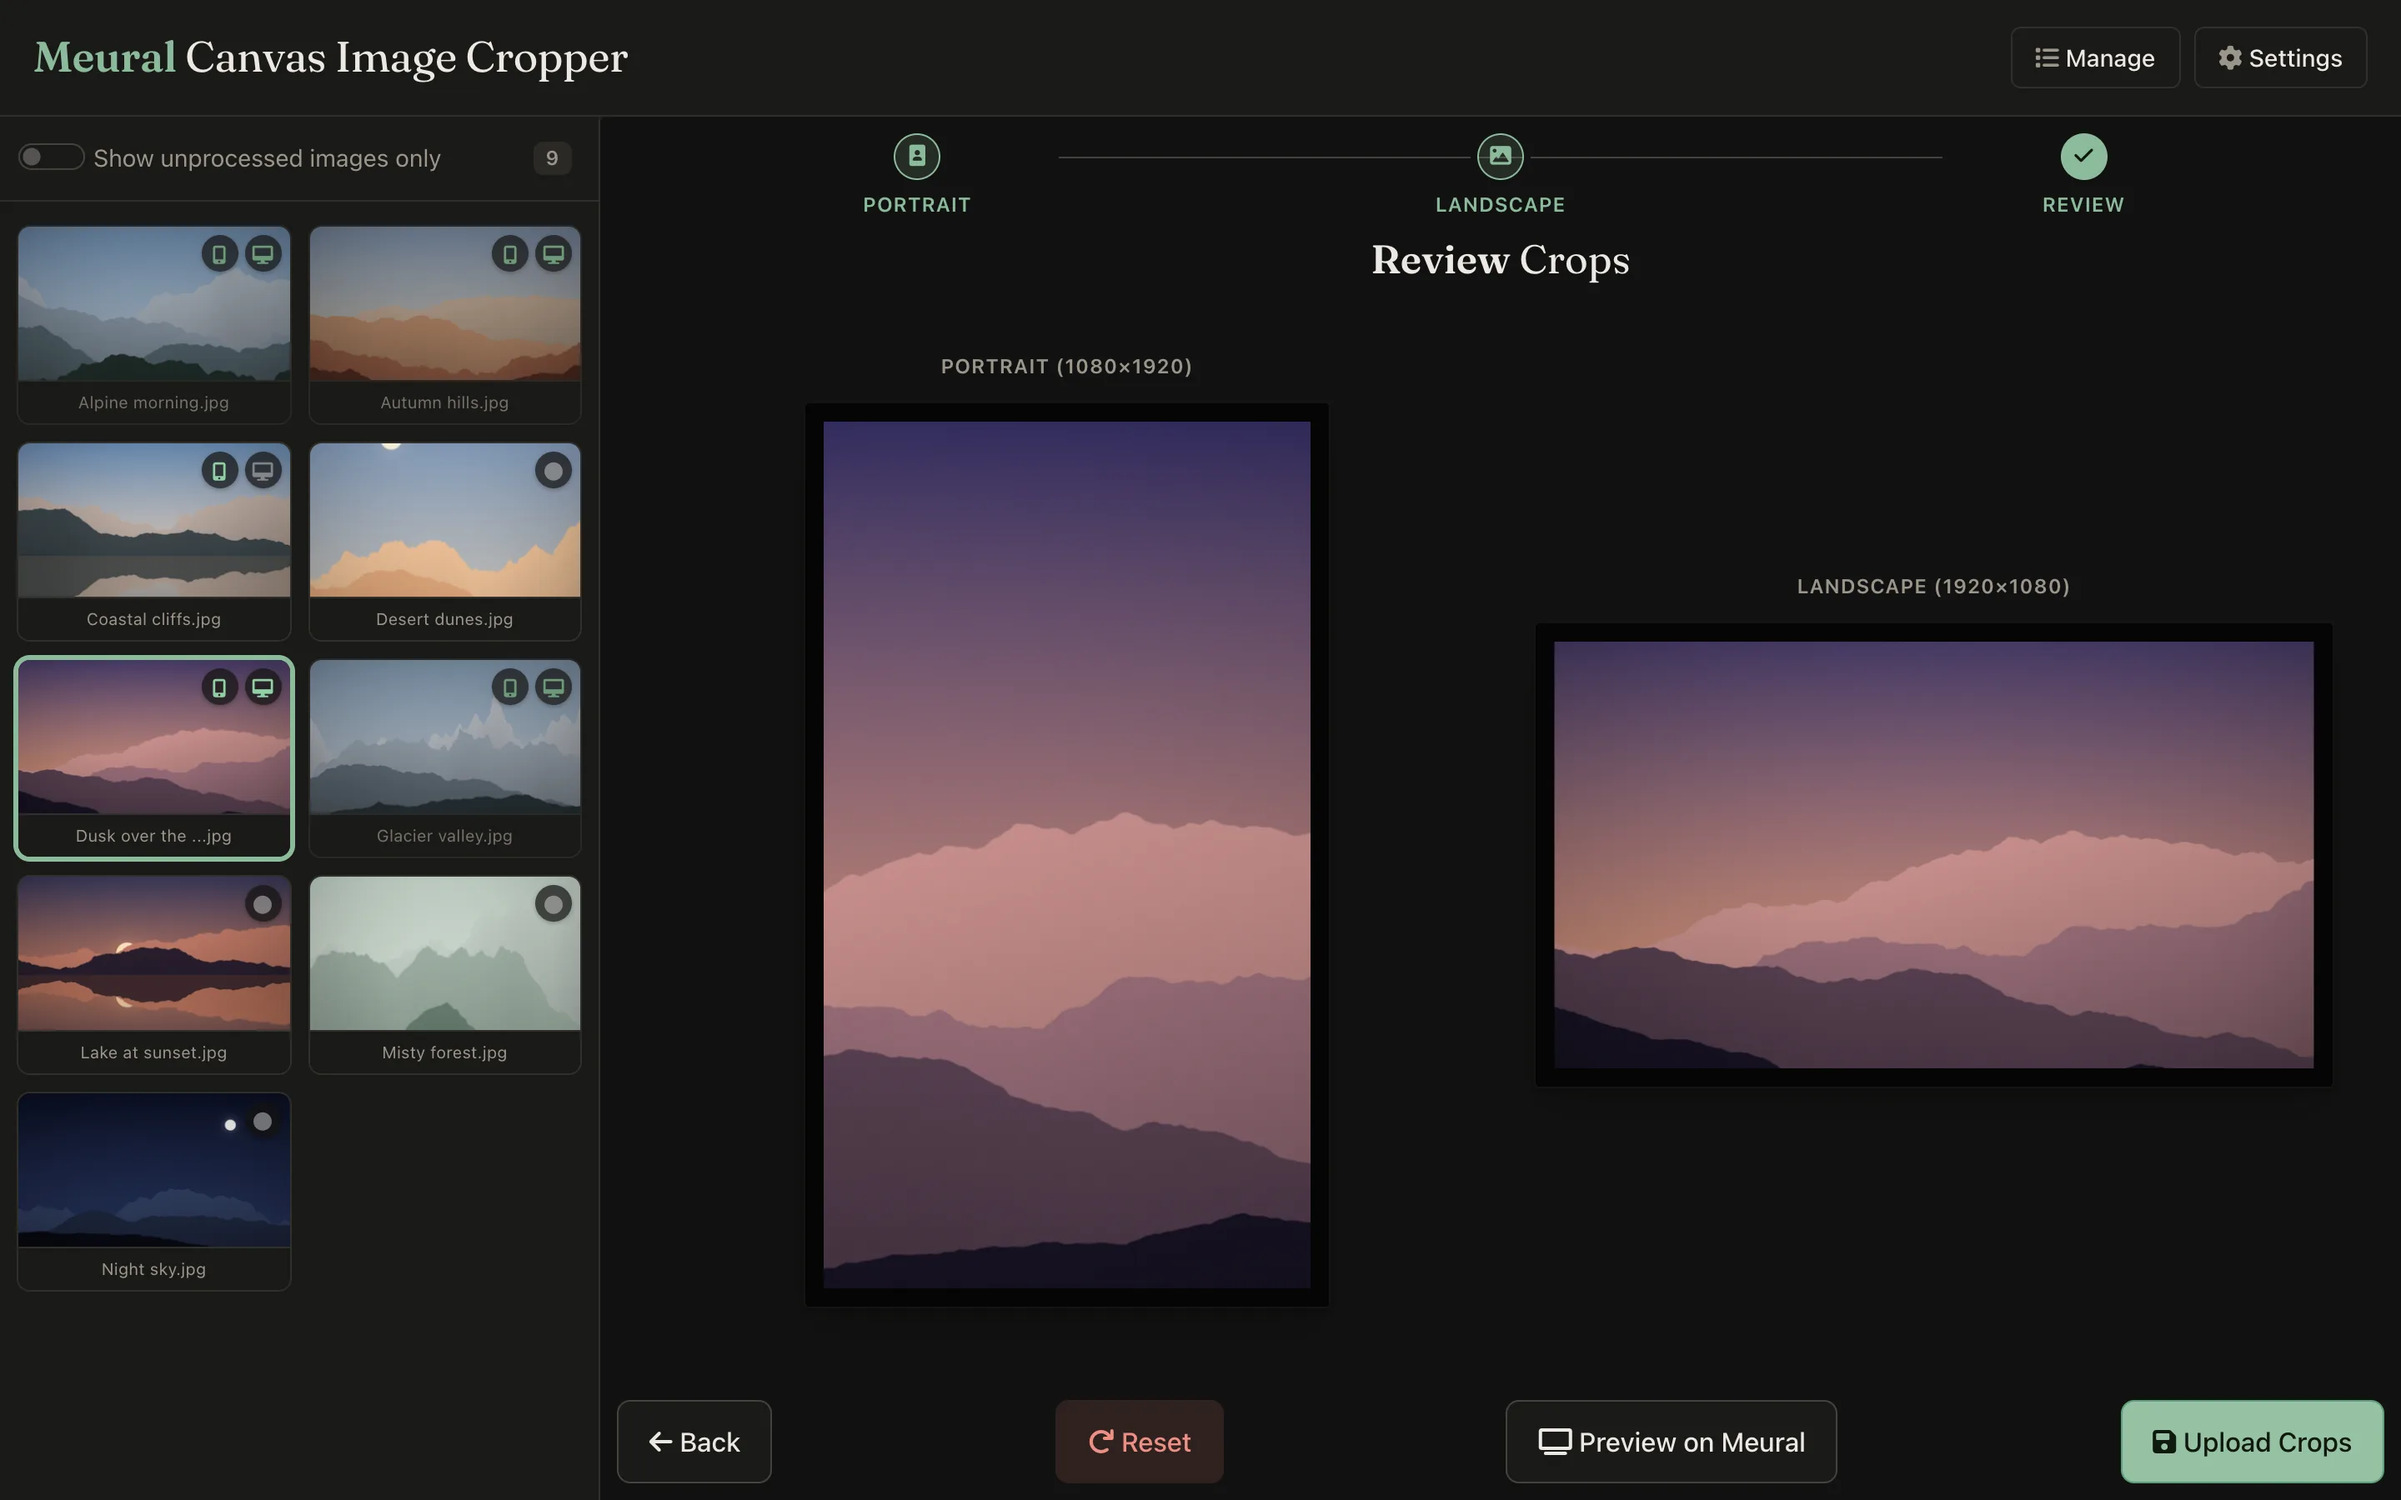
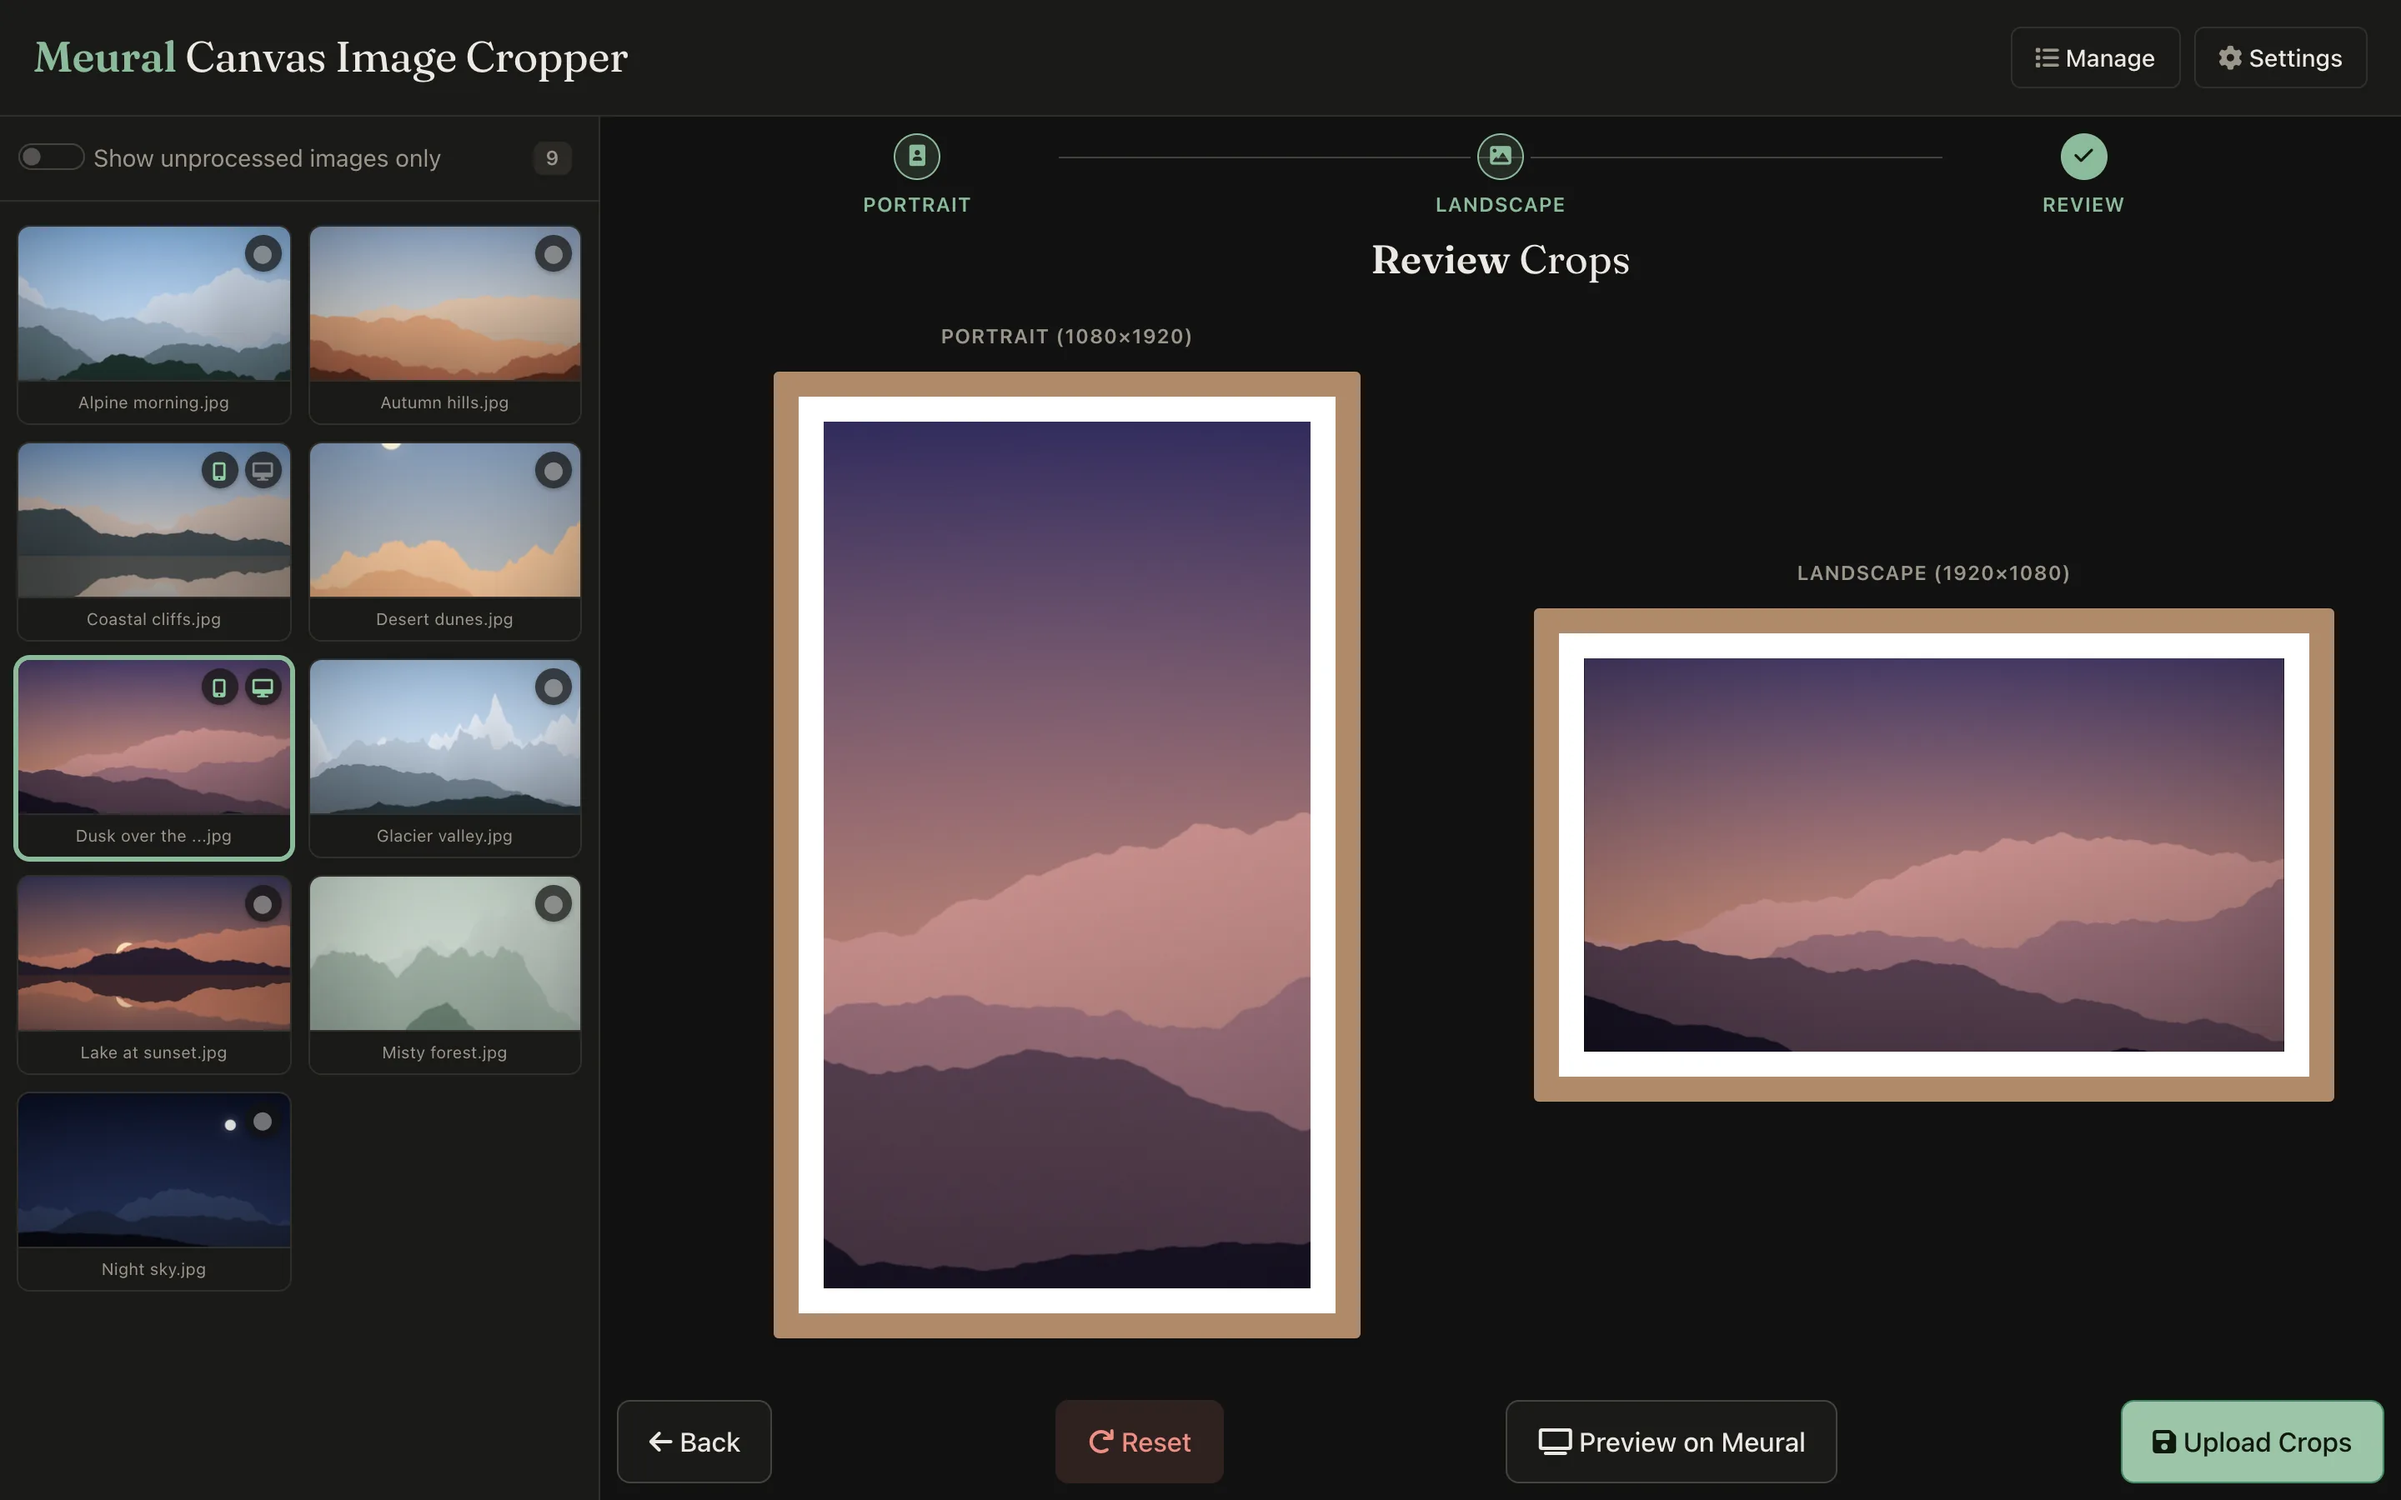
Restore the wood frame and white mat on review previews
The gallery theme replaced them with a thin near-black border that disappeared
against the page, so the review no longer showed how a crop looks on the Meural.

Claude-Session: https://claude.ai/code/session_01YKwrgkXWZ6njwZML91ByMm

diff --git a/app/static/styles.css b/app/static/styles.css
@@ -20,7 +20,7 @@
     --warning: #8f5a00;
     --warning-soft: rgba(196, 135, 20, 0.16);
     --darkroom: #1a1a18;
-    --frame: #161615;
+    --frame: #b08968;
     --shadow-sm: 0 1px 2px rgba(30, 25, 15, 0.06), 0 1px 3px rgba(30, 25, 15, 0.08);
     --shadow-md: 0 4px 12px rgba(30, 25, 15, 0.1);
     --shadow-lg: 0 24px 60px rgba(20, 18, 12, 0.25);
@@ -52,7 +52,6 @@
         --warning: #e6b75c;
         --warning-soft: rgba(230, 183, 92, 0.14);
         --darkroom: #0b0b0a;
-        --frame: #050505;
         --shadow-sm: 0 1px 2px rgba(0, 0, 0, 0.4);
         --shadow-md: 0 4px 14px rgba(0, 0, 0, 0.45);
         --shadow-lg: 0 24px 60px rgba(0, 0, 0, 0.6);
@@ -612,8 +611,8 @@ body {
 .photo-frame {
     background-color: var(--frame);
     border-radius: 3px;
-    box-shadow: inset 0 0 0 1px rgba(255, 255, 255, 0.06), 0 2px 4px rgba(0, 0, 0, 0.18), 0 14px 30px rgba(0, 0, 0, 0.22);
-    padding: min(12px, 3vw);
+    box-shadow: 0 4px 8px rgba(0, 0, 0, 0.1), 0 8px 16px rgba(0, 0, 0, 0.1);
+    padding: min(15px, 3vw);
     transition: transform 0.3s ease;
     display: inline-block;
     max-width: 95%;
@@ -624,7 +623,8 @@ body {
 }
 
 .frame-mat {
-    background-color: #000000;
+    background-color: #ffffff;
+    padding: min(15px, 3vw);
     display: flex;
     justify-content: center;
     align-items: center;
@@ -1375,7 +1375,8 @@ body {
     }
 
     .frame-label { font-size: 0.7rem; }
-    .photo-frame { padding: 6px; max-width: 100%; }
+    .photo-frame { padding: 8px; max-width: 100%; }
+    .frame-mat { padding: 8px; }
     .frame-mat img { max-width: 100%; max-height: 50dvh; }
 
     /* Buttons: the main action spans the bar, the rest share a row with icons above labels.
